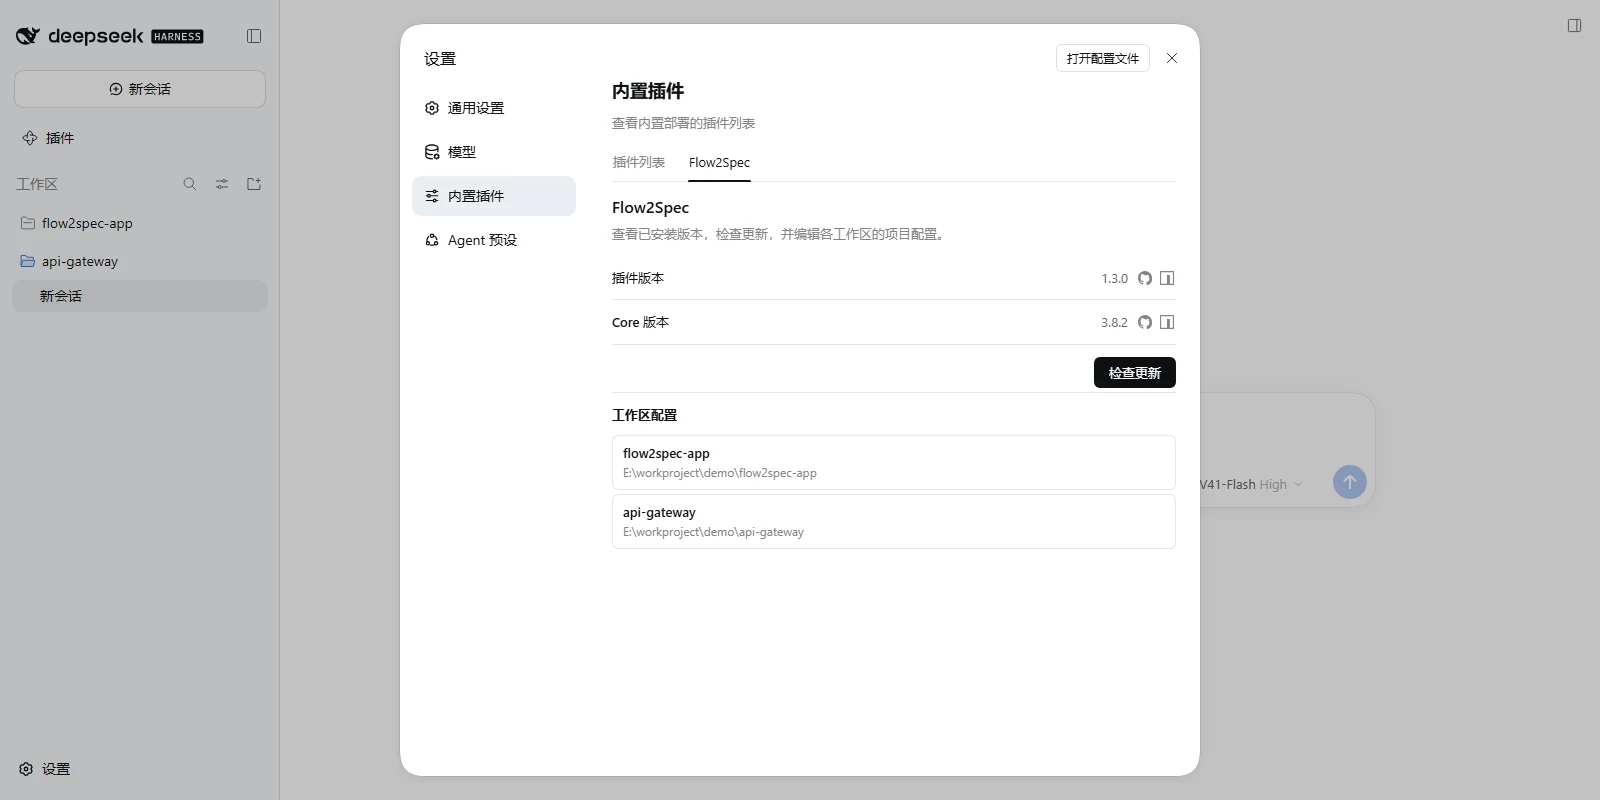
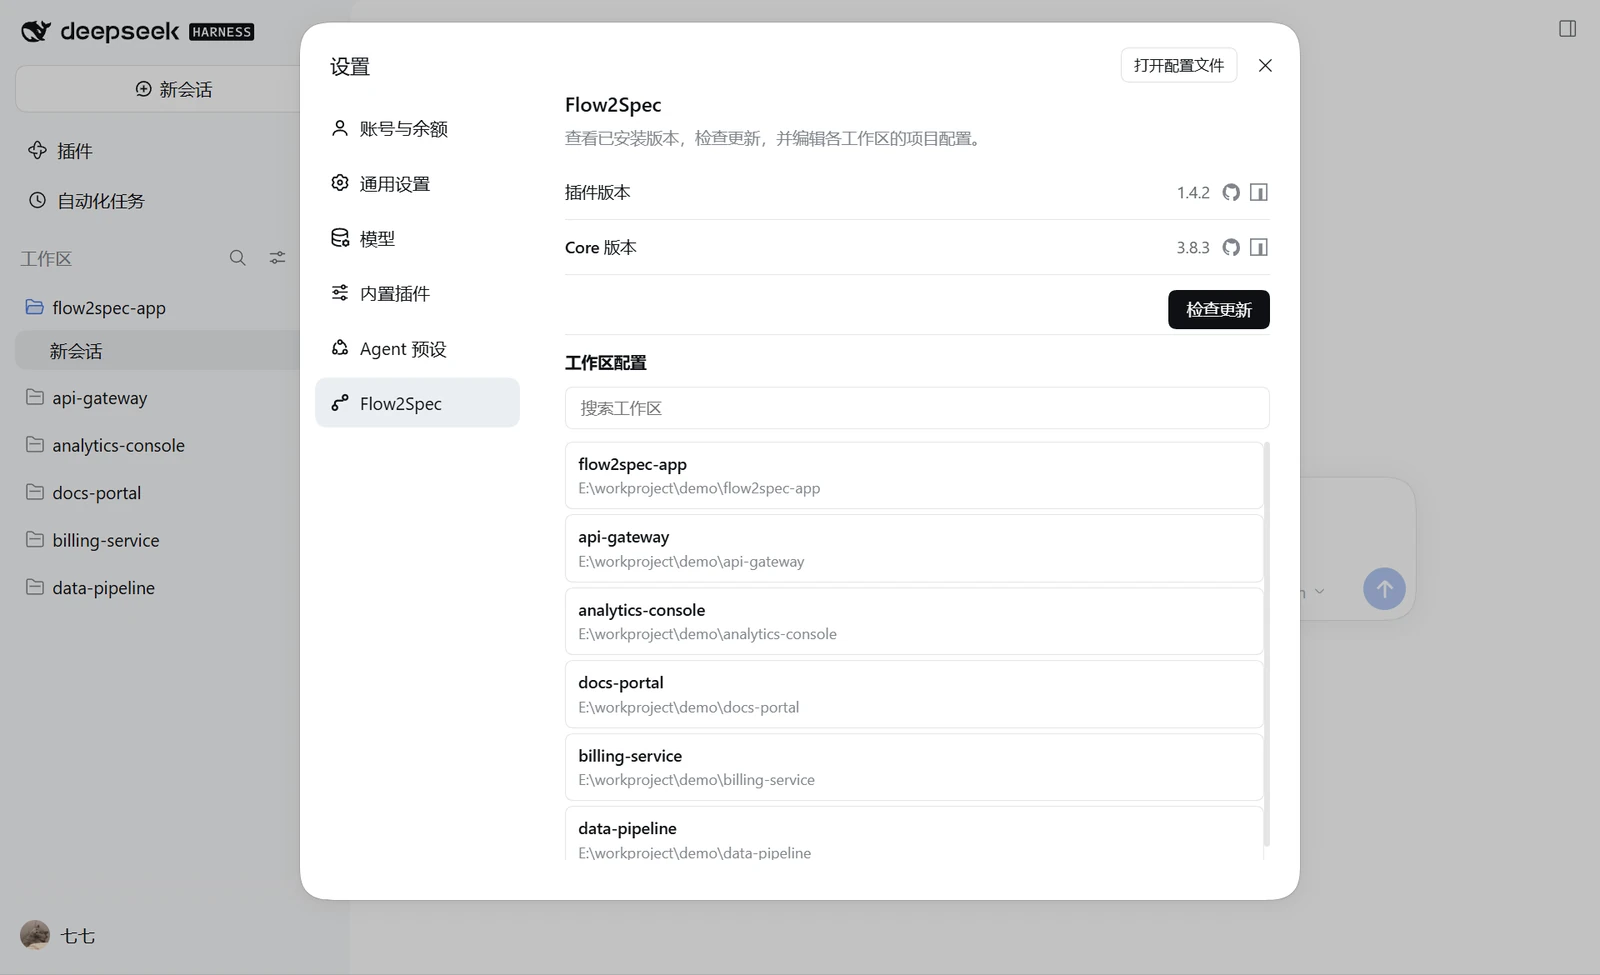
📚 docs: 更换 README 截图为 1.4.2 设置分区界面并更新入口说明
- settings-card.webp 换为 1.4.2 实机截图（插件 1.4.2 / Core 3.8.3，工作区列表撑满面板），裁去系统标题栏，1600x975
- README 与 docs/README.zh-CN.md 入口说明由「设置 → 插件 → Flow2Spec」改为「设置左侧导航选 Flow2Spec」

diff --git a/README.md b/README.md
@@ -56,7 +56,7 @@ Open a project and start a conversation. The plugin incrementally adds `flow2spe
 
 ## Settings card
 
-Open **Settings → Plugins → Flow2Spec** to manage the current workspace integration.
+Open **Settings** and select **Flow2Spec** in the left navigation to manage the current workspace integration.
 
 <p align="center">
   <img src="./assets/readme/settings-card.webp" width="100%" alt="Flow2Spec settings card in DeepSeek Harness">

diff --git a/docs/README.zh-CN.md b/docs/README.zh-CN.md
@@ -56,7 +56,7 @@ dsh web
 
 ## 设置卡片
 
-打开 **设置 → 插件 → Flow2Spec**，即可管理当前工作区的集成配置。
+打开 **设置**，在左侧导航选择 **Flow2Spec**，即可管理当前工作区的集成配置。
 
 <p align="center">
   <img src="../assets/readme/settings-card.webp" width="100%" alt="DeepSeek Harness 中的 Flow2Spec 设置卡片">
